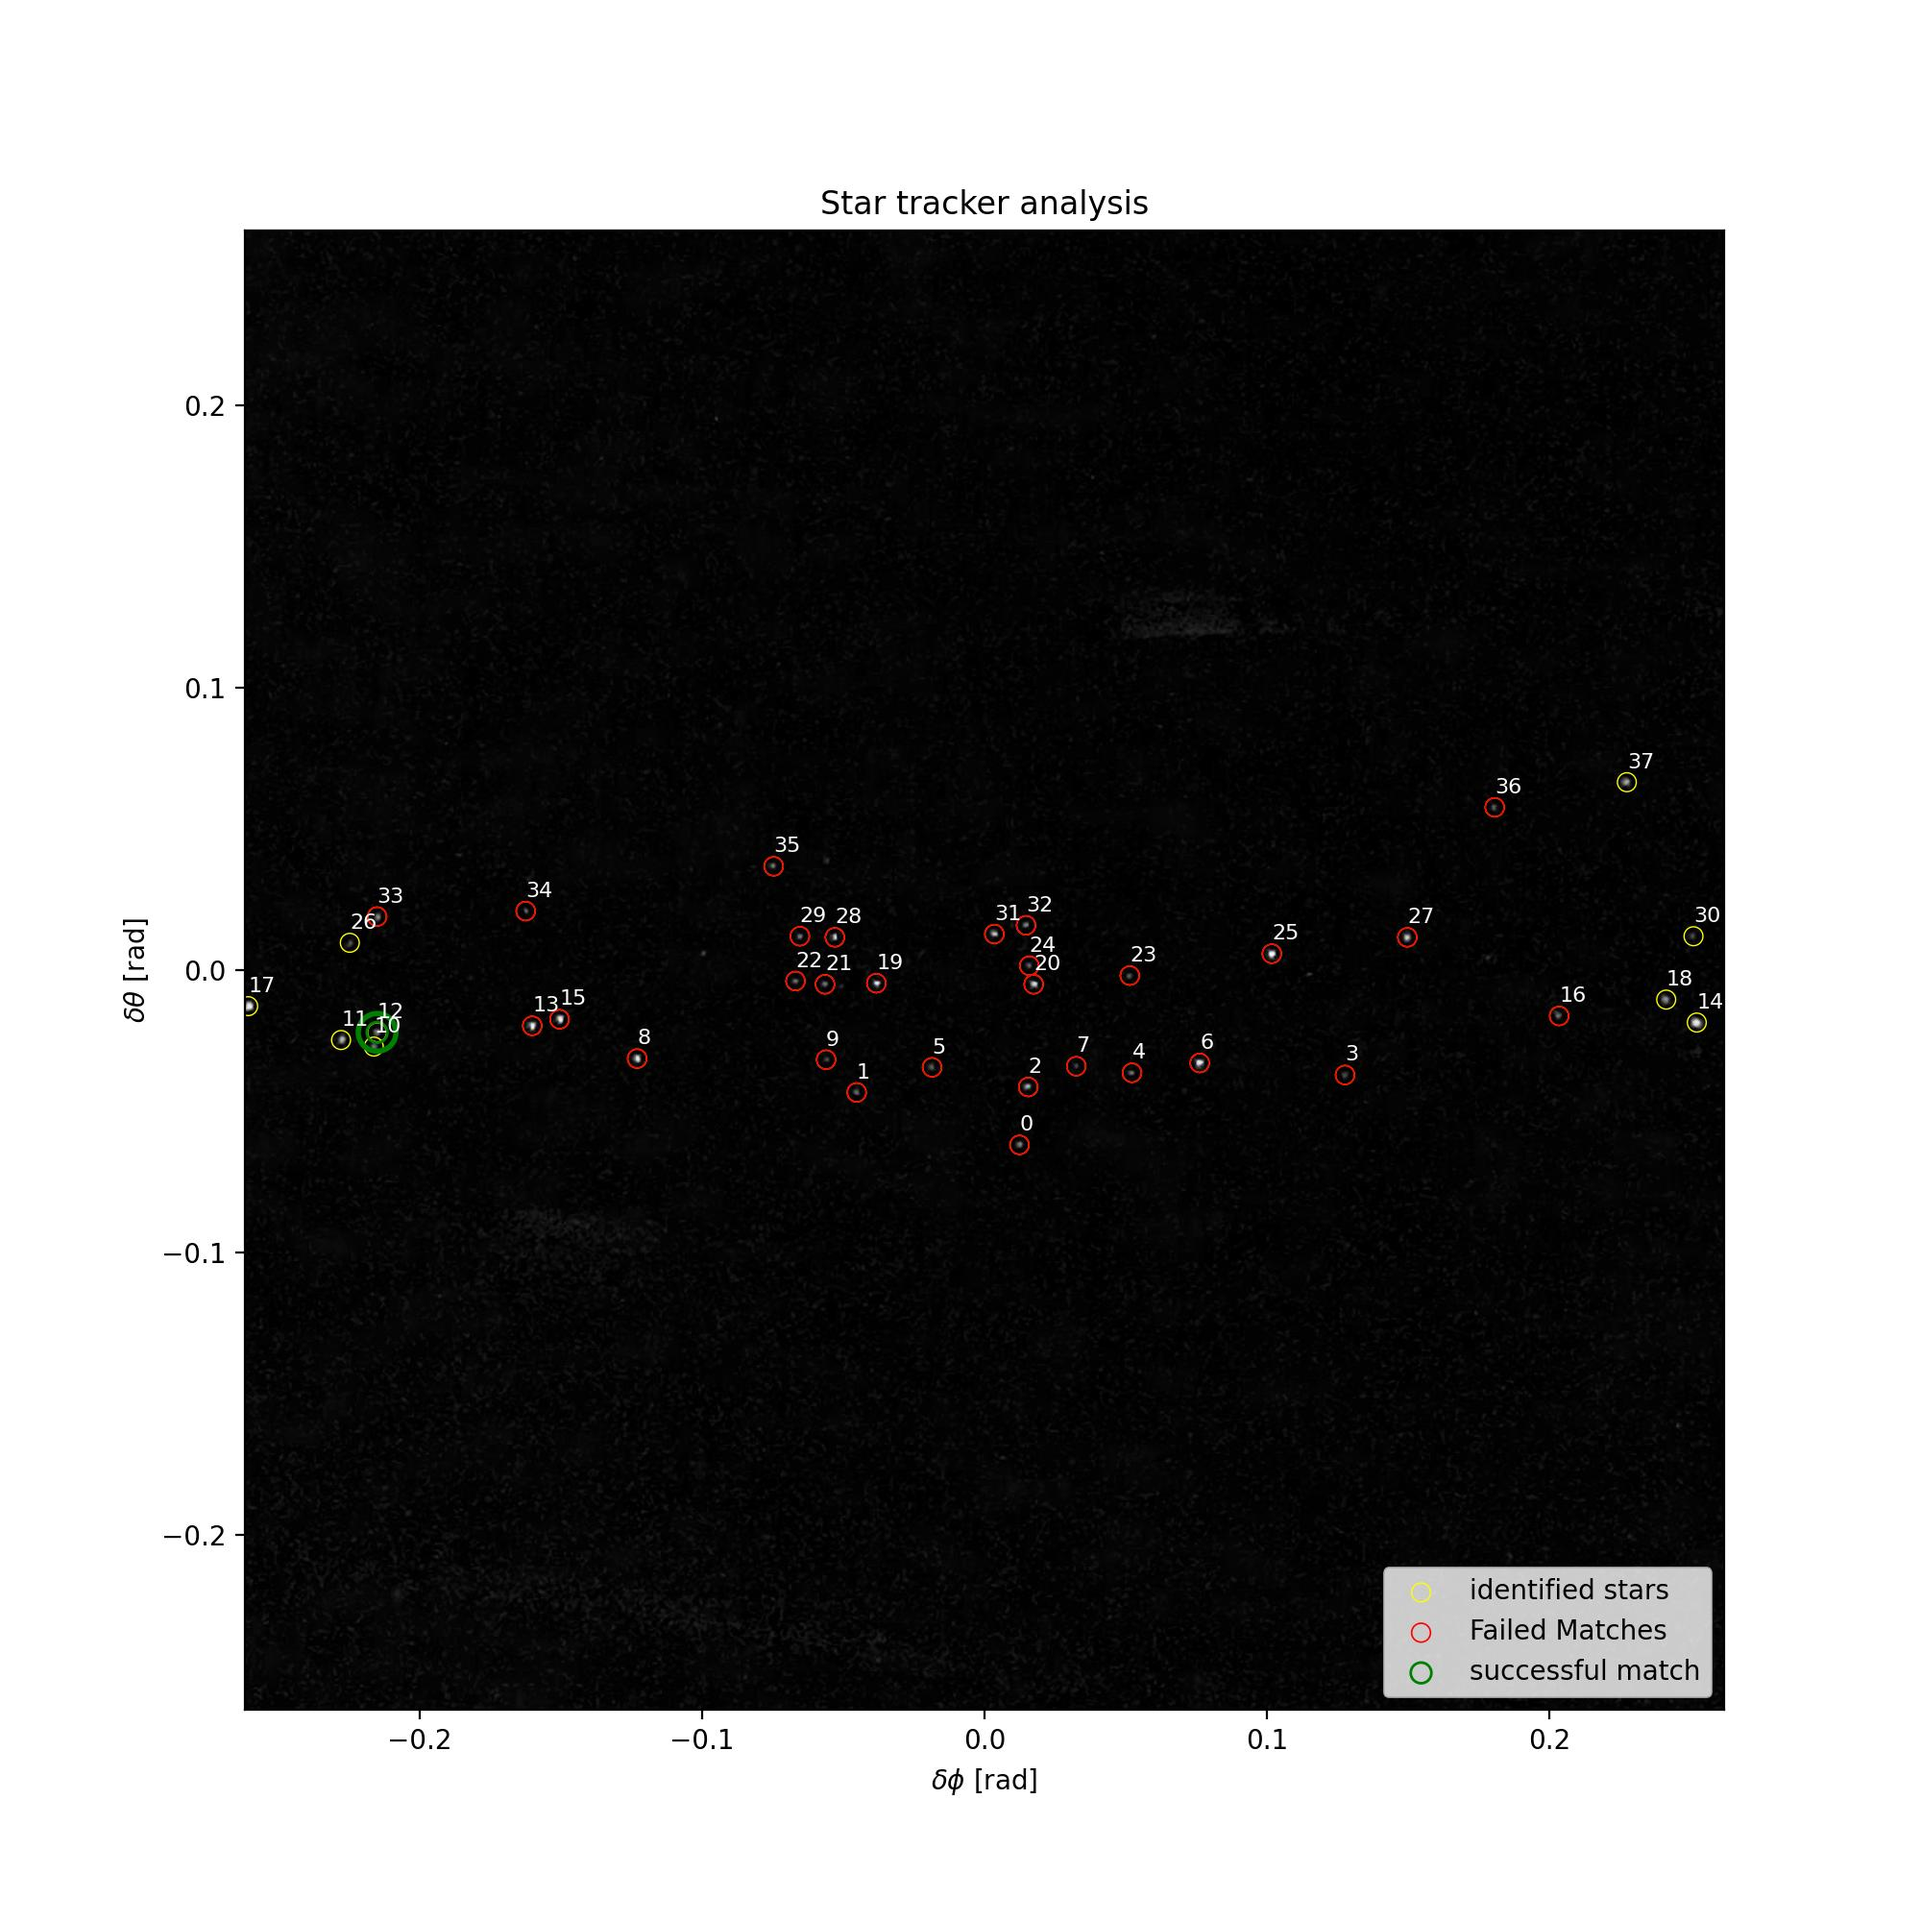
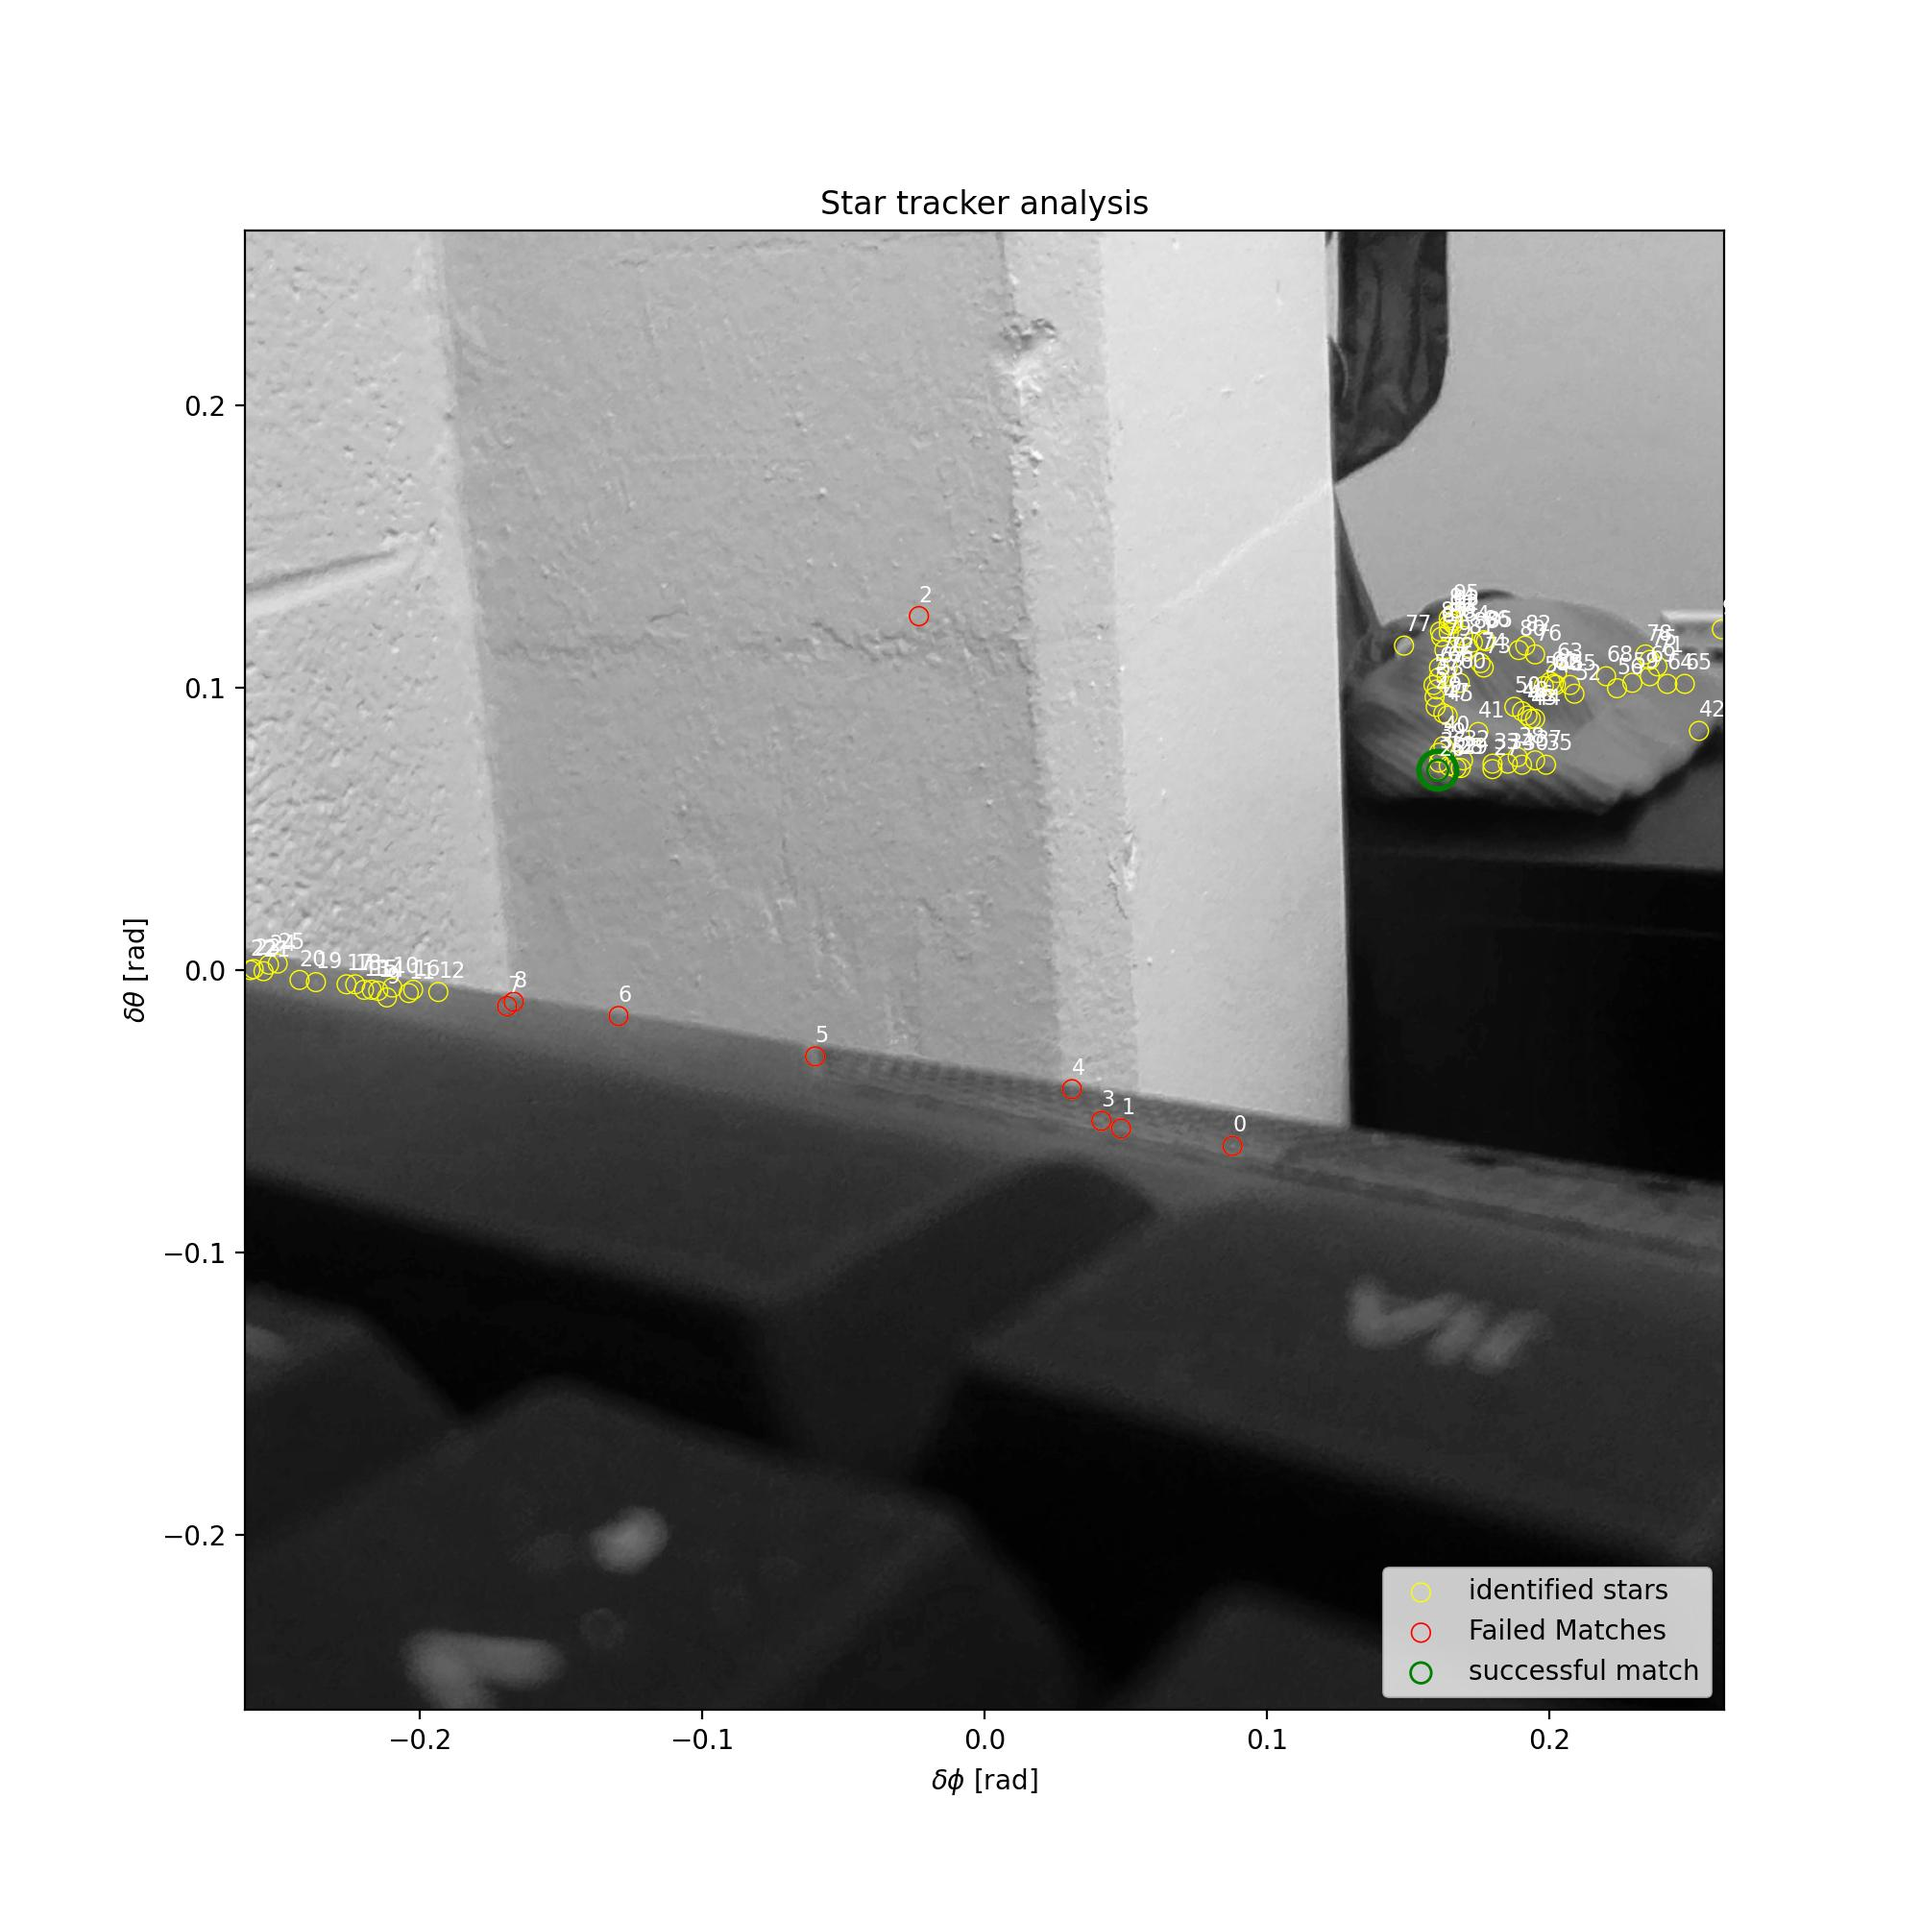
Adding a script that monitors the rpi using scp. May need to run in a virtual environment.

diff --git a/ADCS_python/monitor_telemetry.py b/ADCS_python/monitor_telemetry.py
@@ -1,0 +1,203 @@
+#!/usr/bin/env python3
+# -*- coding: utf-8 -*-
+"""
+Created on Mon Nov 10 14:35:21 2025
+
+@author: atcushen
+
+This script is to be run locally, and it will pull files from the rpi continuously to monitor its progress.
+
+
+"""
+
+import matplotlib
+matplotlib.use('QtAgg') 
+import numpy as np
+import sys
+import paramiko
+from scp import SCPClient
+import os
+import time
+from PIL import Image
+import scipy.io
+import matplotlib.pyplot as plt
+
+def wait_for_file_stability(ssh_client, remote_path, timeout=30, interval=0.1):
+    """
+    Polls the remote file size until it remains unchanged for 'interval' seconds.
+    Returns True if stable, False if timeout reached.
+    """
+    start_time = time.time()
+    last_size = -1
+    
+    print(f"Polling remote file size for stability (max {timeout}s)...")
+
+    while time.time() - start_time < timeout:
+        # Use SSH command to get file size (Linux/macOS command: stat -c%s or ls -l)
+        # We need a robust way to get file size via SSH
+        stdin, stdout, stderr = ssh_client.exec_command(f'stat -c%s "{remote_path}" 2>/dev/null || stat -f%z "{remote_path}"')
+        
+        try:
+            current_size_str = stdout.read().decode('utf-8').strip()
+            if not current_size_str:
+                # File likely doesn't exist yet, wait and retry
+                time.sleep(interval)
+                continue
+
+            current_size = int(current_size_str)
+
+            if current_size == last_size:
+                print(f"File size stabilized at {current_size} bytes.")
+                return True
+            else:
+                last_size = current_size
+                print(f"File size changed to {current_size} bytes. Waiting {interval}s...")
+        
+        except ValueError:
+            print(f"Could not read file size. Error: {stderr.read().decode('utf-8').strip()}")
+
+        time.sleep(interval)
+
+    print("Timeout reached. File size never stabilized.")
+    return False
+
+def scp_get_file_with_password(hostname, username, password, remote_path, local_destination_path, debug = False):
+    """
+    SCP a file from a remote_path to a local_destination_path using a password.
+    
+    :param hostname: The IP address or hostname of the remote server.
+    :param username: The username for authentication.
+    :param password: The password for authentication.
+    :param remote_path: The full path to the file on the remote server.
+    :param local_destination_path: The local directory or full path where the file will be saved.
+    """
+    ssh_client = paramiko.SSHClient()
+    # Automatically add the server's host key (use with caution in production)
+    ssh_client.set_missing_host_key_policy(paramiko.AutoAddPolicy())
+
+    try:
+        if debug:
+            print(f"Connecting to {hostname} as {username}...")
+        # Connect to the remote server using password authentication
+        ssh_client.connect(
+            hostname=hostname,
+            username=username,
+            password=password,
+            look_for_keys=False # Explicitly ignore SSH keys to force password use
+        )
+        if not wait_for_file_stability(ssh_client, remote_path, interval=0.1):
+            print("Could not verify file integrity. Aborting SCP transfer.")
+            return False
+        
+        if debug:
+            print("Connected successfully!")
+        else:
+            print("Got file:", remote_path)
+
+        # SCPCLient takes a paramiko transport as its only argument
+        with SCPClient(ssh_client.get_transport()) as scp:
+            print(f"Retrieving {remote_path} to {local_destination_path}...")
+            # Use scp.get() to retrieve the file/directory
+            scp.get(remote_path, local_destination_path)
+            print("File retrieval complete.")
+
+    except paramiko.AuthenticationException:
+        print("Authentication failed. Please check username and password.")
+    except paramiko.SSHException as e:
+        print(f"SSH error occurred: {e}")
+    except Exception as e:
+        print(f"An error occurred: {e}")
+    finally:
+        if ssh_client:
+            ssh_client.close()
+
+
+def main():
+    
+    start_time = time.time()
+    
+    # Set up memory of test results
+    t_st_ls = []
+    t_ss_ls = []
+    phi_st_ls = []
+    phi_ss_ls = []
+    
+    while monitor:
+        
+        elapsed_time =  time.time() - start_time
+        
+        print("###############")
+        print(f"Looking for data at t = {elapsed_time:.0f}s ...")
+        
+        # Get star tracker and sun_sensor plots
+        scp_get_file_with_password(HOST, USER, PASS, ROOT+"ADCS_python/star_tracker_analysis.jpg", LOCAL_DEST)
+        scp_get_file_with_password(HOST, USER, PASS, ROOT+"ADCS_python/sun_sensor_analysis.jpg", LOCAL_DEST)
+        
+        # Get star tracjer and sun_sensor output results
+        scp_get_file_with_password(HOST, USER, PASS, ROOT+"ADCS_python/phi_st.mat", LOCAL_DEST)
+        scp_get_file_with_password(HOST, USER, PASS, ROOT+"ADCS_python/phi_ss.mat", LOCAL_DEST)
+        
+        # Load images
+        st_analysis_img = Image.open("star_tracker_analysis.jpg")
+        ss_analysis_img = Image.open("sun_sensor_analysis.jpg")
+        
+        # Load .mat files
+        st_data = scipy.io.loadmat('phi_st.mat')
+        ss_data = scipy.io.loadmat('phi_ss.mat')
+    
+        # Append to list, if the data is new:
+        if len(t_st_ls) == 0 or t_st_ls[-1] != st_data['t'].item():
+            t_st_ls.append(st_data['t'].item())
+            phi_st_ls.append(st_data['phi_st'].item())
+        
+        if len(t_ss_ls) == 0 or t_ss_ls[-1] != ss_data['t'].item():
+            t_ss_ls.append(ss_data['t'].item())
+            phi_ss_ls.append(ss_data['phi_ss'].item())
+            
+        time.sleep(wait_time/2)
+        
+        # Set up plot
+        plt.close()
+        plt.ion() 
+        fig = plt.figure(constrained_layout=True, figsize=(50,30))
+        axs = fig.subplot_mosaic([['Top', 'Top'],['BottomLeft', 'BottomRight']],
+                          gridspec_kw={'width_ratios':[1, 1], 'height_ratios':[2,3]})
+        
+        # Get the earliest time saved by either sensor, to set the epoch time of the rpi
+        rpi_epoch_t0 = np.min([t_st_ls[0],t_ss_ls[0]])
+        
+        # Show timeseries
+        axs['Top'].plot(np.array(t_st_ls)-rpi_epoch_t0,np.array(phi_st_ls)*(180/np.pi),label='s.t.',marker = "x")
+        axs['Top'].plot(np.array(t_ss_ls)-rpi_epoch_t0,np.array(phi_ss_ls)*(180/np.pi),label='s.s.',marker = "x")
+        axs['Top'].legend()
+        axs['Top'].set_xlabel("rpi. epoch time [s]")
+        axs['Top'].set_ylabel(r"$\phi$ [deg.]")
+        axs['Top'].set_title("Attitude timeseries")
+        
+        # Show analysis figures
+        axs['BottomLeft'].imshow(st_analysis_img)
+        axs['BottomLeft'].axis('off')
+        axs['BottomRight'].imshow(ss_analysis_img)
+        axs['BottomRight'].axis('off')
+        
+        # Show plot
+        plt.draw()
+        plt.pause(0.001)
+        
+        plt.savefig("telemetry.png", dpi=150)
+
+        time.sleep(wait_time/2)
+
+if __name__ == "__main__":
+    
+    monitor = True
+    wait_time = 1 #[s]
+    
+    # For scp-ing files from the rpi
+    HOST = "192.168.0.102"
+    USER = "space584a"
+    PASS = "raspberry"
+    ROOT = "/home/"+USER+"/MATLAB_ws/R2025b/"
+    LOCAL_DEST = "."
+    
+    main()
